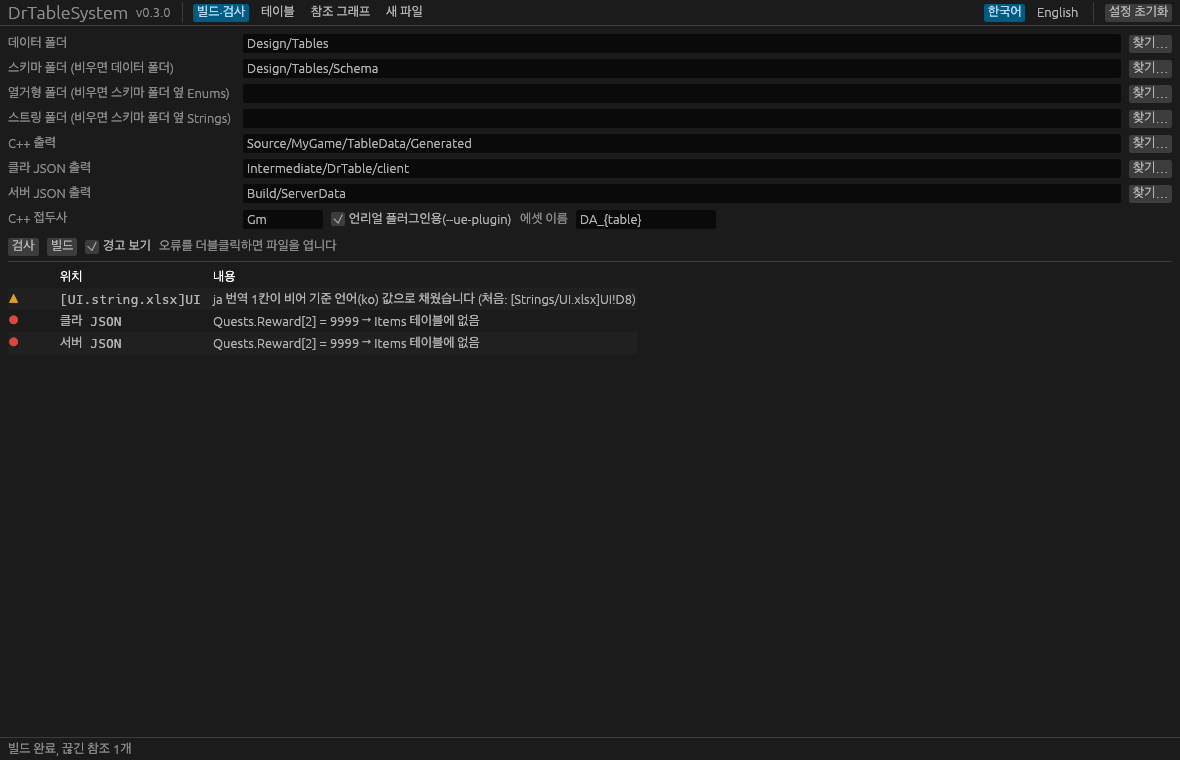
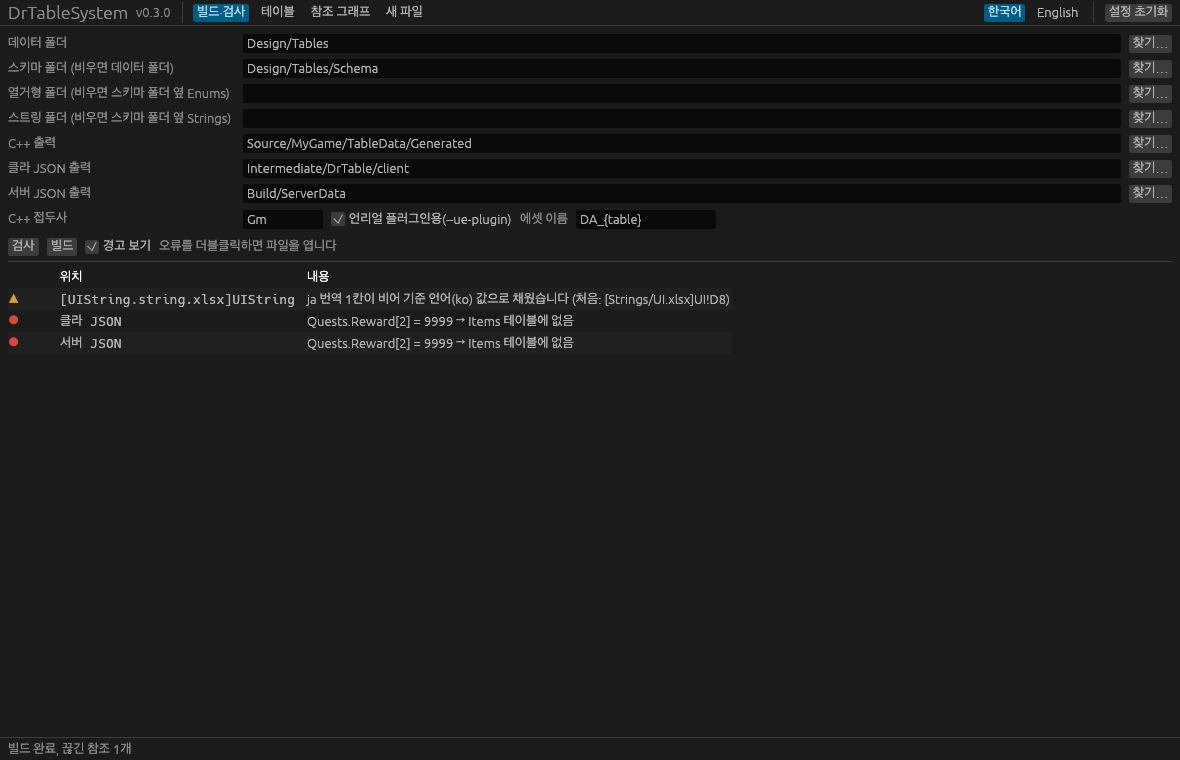
String table schemas are named after the table: UIString.string.xlsx
- The schema file and sheet carry the full table name, which must end with String
  (UIString.string.xlsx, sheet UIString); a name without it is an error with an example.
- Data sheets in the strings folder may leave out String (UI) or write it (UIString).
- Schema errors are reported even when they leave no schema (the empty-input check
  no longer hides them).
- Manual, README, CHANGELOG, design note, screenshots updated.

Claude-Session: https://claude.ai/code/session_016ZSFGbiCnqUvygNywMoQZv

Changed region(s): [[0.0915, 0.3632, 0.6102, 0.4539]]

diff --git a/rust/tests/strings.rs b/rust/tests/strings.rs
@@ -1,5 +1,5 @@
-//! String tables: `<Name>.string.xlsx` language lists, the strings folder, per-language output
-//! and text references. The string table `UI` is the table `UIString`.
+//! String tables: `<Name>String.string.xlsx` language lists, the strings folder, per-language
+//! output and text references. Data sheets may leave out the String suffix (`UI` for `UIString`).
 
 #[macro_use]
 mod common;
@@ -44,7 +44,7 @@ impl Project {
         write_schema(&self.table.join("Schema").join(format!("{name}.schema.xlsx")), name, &fields(items));
     }
 
-    /// Schema/<name>.string.xlsx: one language per row (Language, Base, Scope).
+    /// Schema/<name>.string.xlsx (name ends with String): one language per row (Language, Base, Scope).
     fn string_schema(&self, name: &str, languages: &[Language]) {
         let mut rows = vec![row!["Language", "Base", "Scope", "Comment"]];
         for (code, base, scope) in languages {
@@ -62,7 +62,7 @@ impl Project {
     }
 
     fn ui_strings(&self, data: Vec<Row>) {
-        self.string_schema("UI", &UI_LANGUAGES);
+        self.string_schema("UIString", &UI_LANGUAGES);
         self.data("Strings/UI.xlsx", vec![("UI", sheet(row!["Id", "ko", "en", "zh-Hans"], data))]);
     }
 
@@ -105,7 +105,7 @@ fn string_table_outputs_one_file_per_language() {
     // The empty zh-Hans cell takes the base text.
     let zh = project.json("client/Strings/zh-Hans/UIString.json");
     assert_eq!(zh["values"], json!(["확인", "{0} 金币", "主界面"]));
-    assert!(result.stderr.contains("[UI.string.xlsx]UI: zh-Hans 번역 1칸이 비어 기준 언어(ko) 값으로 채웠습니다"), "{}", result.stderr);
+    assert!(result.stderr.contains("[UIString.string.xlsx]UIString: zh-Hans 번역 1칸이 비어 기준 언어(ko) 값으로 채웠습니다"), "{}", result.stderr);
     assert!(result.stderr.contains("[Strings/UI.xlsx]UI!D5"), "{}", result.stderr);
     // The structure hash is shared; each language has its own content hash.
     assert_eq!(ko["schema_hash"], zh["schema_hash"]);
@@ -115,7 +115,7 @@ fn string_table_outputs_one_file_per_language() {
     assert!(manifest["tables"].as_array().unwrap().iter().all(|t| t["name"] != "UIString"));
     let entry = &manifest["string_tables"][0];
     assert_eq!(entry["name"], "UIString");
-    assert_eq!(entry["schema"], "UI.string.xlsx");
+    assert_eq!(entry["schema"], "UIString.string.xlsx");
     assert_eq!(entry["base_language"], "ko");
     assert_eq!(entry["languages"], json!(["ko", "en", "zh-Hans"]));
     assert_eq!(entry["content_hashes"]["en"], project.json("client/Strings/en/UIString.json")["content_hash"]);
@@ -130,7 +130,7 @@ fn string_table_outputs_one_file_per_language() {
 
 #[test]
 fn a_string_table_and_a_table_may_share_a_name() {
-    // UI.string.xlsx defines UIString, so a regular table UI is unaffected.
+    // UIString.string.xlsx defines UIString; its data sheets are named UI, and a regular table UI is unaffected.
     let project = Project::new();
     project.ui_strings(sample_rows());
     project.schema("UI", &[("Id", "ID<int32>", "all")]);
@@ -144,7 +144,7 @@ fn a_string_table_and_a_table_may_share_a_name() {
 #[test]
 fn server_scope_languages_go_to_the_server_output() {
     let project = Project::new();
-    project.string_schema("Mail", &[("ko", true, "all"), ("en", false, "")]);
+    project.string_schema("MailString", &[("ko", true, "all"), ("en", false, "")]);
     project.data("Strings/Mail.xlsx", vec![("Mail", sheet(row!["Id", "ko", "en"], vec![row!["Welcome", "환영", "Welcome"]]))]);
     assert_eq!(project.build(&[]).code, 0);
     assert_eq!(project.json("server/manifest.json")["string_tables"][0]["languages"], json!(["ko"]));
@@ -218,23 +218,23 @@ fn string_keys_header_is_opt_in() {
 #[test]
 fn string_data_belongs_in_the_strings_folder() {
     let project = Project::new();
-    project.string_schema("UI", &UI_LANGUAGES);
+    project.string_schema("UIString", &UI_LANGUAGES);
     project.schema("Items", &[("Id", "ID<int32>", "all")]);
     project.data("UI.xlsx", vec![("UI", sheet(row!["Id", "ko", "en", "zh-Hans"], vec![row!["A", "가", (), ()]]))]);
     project.data("Strings/Items.xlsx", vec![("Items", sheet(row!["Id"], vec![row![1]]))]);
     project.data("Strings/Other.xlsx", vec![("Menu", sheet(row!["Id", "ko"], vec![row!["A", "가"]]))]);
     let result = project.build(&[]);
     assert_eq!(result.code, 1);
-    assert!(result.stderr.contains("[UI.xlsx]UI!A1: 스트링테이블 'UI'의 데이터는 스트링 폴더("), "{}", result.stderr);
+    assert!(result.stderr.contains("[UI.xlsx]UI!A1: 스트링테이블 'UIString'의 데이터는 스트링 폴더("), "{}", result.stderr);
     assert!(result.stderr.contains("[Strings/Items.xlsx]Items!A1: 일반 테이블 'Items'의 데이터는 스트링 폴더("), "{}", result.stderr);
-    assert!(result.stderr.contains("[Strings/Other.xlsx]Menu!A1: 스트링테이블 스키마가 없습니다. 언어 목록을 'Menu.string.xlsx'에"), "{}", result.stderr);
+    assert!(result.stderr.contains("[Strings/Other.xlsx]Menu!A1: 스트링테이블 스키마가 없습니다. 언어 목록을 'MenuString.string.xlsx'에"), "{}", result.stderr);
 }
 
 #[test]
 fn strings_folder_option_and_default_without_a_schema_folder() {
     // Elsewhere with --strings.
     let project = Project::new();
-    project.string_schema("UI", &UI_LANGUAGES);
+    project.string_schema("UIString", &UI_LANGUAGES);
     let elsewhere = project.table.parent().unwrap().join("Localization");
     Book::new()
         .with("UI", sheet(row!["Id", "ko", "en", "zh-Hans"], vec![row!["A", "가", "A", "甲"]]))
@@ -246,8 +246,8 @@ fn strings_folder_option_and_default_without_a_schema_folder() {
     // Without --schema the schemas sit in the input folder and the strings in <input>/Strings.
     let tmp = Tmp::new();
     Book::new()
-        .with("UI", vec![row!["Language", "Base", "Scope"], row!["ko", true], row!["en"]])
-        .save_plain(&tmp.join("UI.string.xlsx"));
+        .with("UIString", vec![row!["Language", "Base", "Scope"], row!["ko", true], row!["en"]])
+        .save_plain(&tmp.join("UIString.string.xlsx"));
     Book::new().with("UI", sheet(row!["Id", "ko", "en"], vec![row!["A", "가", ()]])).save_plain(&tmp.join("Strings/UI.xlsx"));
     let result = build(&tmp, &tmp.join("out"), &[]);
     assert_eq!(result.code, 0, "{}", result.stderr);
@@ -264,11 +264,11 @@ fn language_list_rules() {
     ];
     for (languages, cell, message) in cases {
         let project = Project::new();
-        project.string_schema("UI", languages);
+        project.string_schema("UIString", languages);
         project.data("Strings/UI.xlsx", vec![("UI", sheet(row!["Id", "ko", "en"], vec![]))]);
         let result = project.build(&[]);
         assert_eq!(result.code, 1, "{message}");
-        assert!(result.stderr.contains(&format!("[UI.string.xlsx]UI!{cell}")), "{message}: {}", result.stderr);
+        assert!(result.stderr.contains(&format!("[UIString.string.xlsx]UIString!{cell}")), "{message}: {}", result.stderr);
         assert!(result.stderr.contains(message), "{message}: {}", result.stderr);
     }
 }
@@ -324,7 +324,7 @@ fn string_keys_differing_only_by_case_are_rejected() {
 #[test]
 fn new_creates_a_string_data_workbook() {
     let project = Project::new();
-    project.string_schema("UI", &UI_LANGUAGES);
+    project.string_schema("UIString", &UI_LANGUAGES);
     let out = project.table.join("Strings/UI.xlsx");
     let result = drtable(["new", "--table", "UI", "--out", &s(&out), "--schema", &s(&project.table.join("Schema"))]);
     assert_eq!(result.code, 0, "{}", result.stderr);
@@ -339,4 +339,26 @@ fn new_creates_a_string_data_workbook() {
     assert!(base_view.contains("SUBSTITUTE(B$1,\"-\",\"_\")"), "{base_view}");
     // The new workbook builds (an empty string table).
     assert_eq!(project.build(&[]).code, 0);
+}
+
+#[test]
+fn string_table_names_end_with_string() {
+    let project = Project::new();
+    project.string_schema("Mail", &[("ko", true, "")]);
+    let result = project.build(&[]);
+    assert_eq!(result.code, 1);
+    assert!(result.stderr.contains("[Mail.string.xlsx]Mail!A1: 스트링테이블 이름은 String으로 끝나야 합니다 (예: MailString.string.xlsx"), "{}", result.stderr);
+}
+
+#[test]
+fn data_sheets_may_use_the_full_name() {
+    let project = Project::new();
+    project.string_schema("UIString", &UI_LANGUAGES);
+    project.data("Strings/UI.xlsx", vec![
+        ("UI", sheet(row!["Id", "ko", "en", "zh-Hans"], vec![row!["A", "가", (), ()]])),
+        ("UIString#more", sheet(row!["Id", "ko", "en", "zh-Hans"], vec![row!["B", "나", (), ()]])),
+    ]);
+    let result = project.build(&[]);
+    assert_eq!(result.code, 0, "{}", result.stderr);
+    assert_eq!(project.json("client/Strings/ko/UIString.json")["keys"], json!(["A", "B"]));
 }

diff --git a/rust/src/excel.rs b/rust/src/excel.rs
@@ -107,7 +107,7 @@ pub fn load_model(
     }
     // An input folder with nothing in it is almost always a wrong path; building it would
     // replace the generated code with an empty set.
-    if files.is_empty() && schemas.all().next().is_none() {
+    if files.is_empty() && schemas.all().next().is_none() && errors.messages.is_empty() {
         return Err(ValidationErrors(vec![tr(
             format!("입력!A1: 스키마도 데이터 파일도 없습니다: {}", input.display()),
             format!("input!A1: no schema or data workbook found: {}", input.display()),
@@ -153,31 +153,42 @@ pub fn load_model(
                 ));
                 continue;
             }
-            // Sheets in the strings folder belong to string tables: sheet UI is the table UIString.
-            let string_name = format!("{name}{STRING_TABLE_SUFFIX}");
+            // Sheets in the strings folder belong to string tables; the sheet may leave out the
+            // String suffix (UI for UIString).
+            let string_name = if name.ends_with(STRING_TABLE_SUFFIX) && schemas.tables.get(name).is_some_and(|s| s.is_strings) {
+                name.to_string()
+            } else {
+                format!("{name}{STRING_TABLE_SUFFIX}")
+            };
             let table = if in_strings_folder { string_name.as_str() } else { name };
             let folder = strings_root.display();
+            let wrong_place = |is_strings: bool| if is_strings {
+                tr(
+                    format!("스트링테이블 '{string_name}'의 데이터는 스트링 폴더({folder})에 두어야 합니다"),
+                    format!("string table '{string_name}' data belongs in the strings folder ({folder})"),
+                )
+            } else {
+                tr(
+                    format!("일반 테이블 '{name}'의 데이터는 스트링 폴더({folder})에 둘 수 없습니다"),
+                    format!("table '{name}' is not a string table; its data cannot be in the strings folder ({folder})"),
+                )
+            };
             match schemas.tables.get(table) {
                 Some(schema) if schema.is_strings == in_strings_folder => {
                     if let Some(grid) = &sheet.grid {
                         table_parts.entry(table.to_string()).or_default().push(SheetRef { file: relative, grid });
                     }
                 }
-                Some(_) => errors.add(&where_, "A1", tr(
-                    format!("일반 테이블 '{name}'의 데이터는 스트링 폴더({folder})에 둘 수 없습니다"),
-                    format!("table '{name}' is not a string table; its data cannot be in the strings folder ({folder})"),
-                )),
-                None if !in_strings_folder && schemas.tables.get(&string_name).is_some_and(|s| s.is_strings) => errors.add(&where_, "A1", tr(
-                    format!("스트링테이블 '{name}'의 데이터는 스트링 폴더({folder})에 두어야 합니다"),
-                    format!("string table '{name}' data belongs in the strings folder ({folder})"),
-                )),
-                None if in_strings_folder && schemas.tables.get(name).is_some_and(|s| !s.is_strings) => errors.add(&where_, "A1", tr(
-                    format!("일반 테이블 '{name}'의 데이터는 스트링 폴더({folder})에 둘 수 없습니다"),
-                    format!("table '{name}' is not a string table; its data cannot be in the strings folder ({folder})"),
-                )),
+                Some(schema) => errors.add(&where_, "A1", wrong_place(schema.is_strings)),
+                None if !in_strings_folder && schemas.tables.get(&string_name).is_some_and(|s| s.is_strings) => {
+                    errors.add(&where_, "A1", wrong_place(true))
+                }
+                None if in_strings_folder && schemas.tables.get(name).is_some_and(|s| !s.is_strings) => {
+                    errors.add(&where_, "A1", wrong_place(false))
+                }
                 None if in_strings_folder => errors.add(&where_, "A1", tr(
-                    format!("스트링테이블 스키마가 없습니다. 언어 목록을 '{name}.string.xlsx'에 정의하세요"),
-                    format!("no string table schema. List the languages in '{name}.string.xlsx'"),
+                    format!("스트링테이블 스키마가 없습니다. 언어 목록을 '{string_name}.string.xlsx'에 정의하세요"),
+                    format!("no string table schema. List the languages in '{string_name}.string.xlsx'"),
                 )),
                 None => errors.add(&where_, "A1", tr(
                     format!("스키마가 없습니다. '{name}.schema.xlsx'에 필드를 정의하세요"),

diff --git a/rust/src/schemafile.rs b/rust/src/schemafile.rs
@@ -2,13 +2,13 @@
 //!
 //! * Table schemas: `<Table>.schema.xlsx` in the schema folder.
 //! * Enum schemas: `<Enum>.enum.xlsx` in the enum folder (default: `Enums` next to the schema folder).
-//! * String table schemas: `<Name>.string.xlsx` in the schema folder. They define the table
-//!   `<Name>String`: an `Id` name key and one column per language.
+//! * String table schemas: `<Name>String.string.xlsx` in the schema folder (the name ends with
+//!   `String`). They define the table `<Name>String`: an `Id` name key and one column per language.
 //!
 //! Table schema: one sheet named after the table; row 1 labels, from row 2 one field per row
 //! (A name, B type, C scope, D comment). Enum schema: one sheet named after the enum; from
 //! row 2 one enumerator per row (A name, B value, C comment). String table schema: one sheet
-//! named `<Name>`; from row 2 one language per row (A language code, B base language mark,
+//! named `<Name>String`; from row 2 one language per row (A language code, B base language mark,
 //! C scope (default client), D comment).
 
 use std::collections::BTreeMap;
@@ -25,7 +25,7 @@ pub const TABLE_SUFFIXES: [&str; 1] = [".schema.xlsx"];
 pub const ENUM_SUFFIXES: [&str; 1] = [".enum.xlsx"];
 pub const STRING_SUFFIXES: [&str; 1] = [".string.xlsx"];
 pub const SCHEMA_SUFFIXES: [&str; 3] = [".schema.xlsx", ".enum.xlsx", ".string.xlsx"];
-/// A string table `UI` (UI.string.xlsx, data sheets `UI`) is the table `UIString`.
+/// String table names end with this (UIString.string.xlsx); data sheets may leave it out (`UI`).
 pub const STRING_TABLE_SUFFIX: &str = "String";
 pub const DEFAULT_ENUM_FOLDER: &str = "Enums";
 pub const DEFAULT_STRINGS_FOLDER: &str = "Strings";
@@ -39,7 +39,7 @@ pub struct Schema {
     pub name: String,
     pub rows: Vec<Row>,
     pub is_enum: bool,
-    /// A string table schema (`.string.xlsx`); `name` is `<title>String`.
+    /// A string table schema (`.string.xlsx`); its name ends with `String`.
     pub is_strings: bool,
     /// Sheet name as written.
     pub title: String,
@@ -52,8 +52,8 @@ impl Schema {
         format!("[{}]{}", self.file, if self.title.is_empty() { &self.name } else { &self.title })
     }
 
-    /// The name as written in the file (`UI` for the string table `UIString`).
-    pub fn defined_name(&self) -> String {
+    /// The name a data sheet may use: `UI` for the string table `UIString`, otherwise the name.
+    pub fn short_name(&self) -> String {
         if self.is_strings {
             self.name.strip_suffix(STRING_TABLE_SUFFIX).unwrap_or(&self.name).to_string()
         } else {
@@ -208,7 +208,7 @@ fn collect(
         let Some(schema) = read_schema(path, relative, kind, errors) else { continue };
         let file_name = path.file_name().map(|n| n.to_string_lossy().to_string()).unwrap_or_default();
         let stem = &file_name[..file_name.len() - suffix.len()];
-        let defined = schema.defined_name();
+        let defined = schema.name.clone();
         if defined != stem {
             errors.add(&schema.where_(), "A1", tr(
                 format!("이름 '{defined}'과 파일 이름 '{file_name}'이 다릅니다. 파일 이름은 '{defined}{suffix}'여야 합니다"),
@@ -258,6 +258,14 @@ fn read_schema(path: &Path, relative: &str, kind: Kind, errors: &mut ErrorCollec
         ));
         return None;
     }
+    if is_strings && (schema.name.len() <= STRING_TABLE_SUFFIX.len() || !schema.name.ends_with(STRING_TABLE_SUFFIX)) {
+        let example = format!("{}{STRING_TABLE_SUFFIX}", schema.name);
+        errors.add(&schema.where_(), "A1", tr(
+            format!("스트링테이블 이름은 String으로 끝나야 합니다 (예: {example}.string.xlsx, 시트 {example})"),
+            format!("a string table name must end with String (e.g. {example}.string.xlsx, sheet {example})"),
+        ));
+        return None;
+    }
     let grid = sheet.grid?;
     let width = if is_enum { 3 } else { 4 };
     for row in 2..=grid.max_row() {
@@ -298,7 +306,6 @@ fn read_schema(path: &Path, relative: &str, kind: Kind, errors: &mut ErrorCollec
     if is_strings {
         // The key is implicit: Id, a name, in every output.
         schema.rows.insert(0, (1, Cell::Str("Id".into()), Cell::Str("ID<name>".into()), Cell::Str("all".into()), Cell::Empty));
-        schema.name = format!("{}{STRING_TABLE_SUFFIX}", schema.name);
     }
     Some(schema)
 }

diff --git a/rust/src/headers.rs b/rust/src/headers.rs
@@ -53,8 +53,8 @@ pub fn new_workbook(target: &Path, table: &str, schemas: &Schemas, errors: &mut 
     let mut workbook = Workbook::new();
     let sheet = workbook.add_worksheet();
     let written = (|| -> Result<(), rust_xlsxwriter::XlsxError> {
-        // A string table's data sheet is named like its schema sheet (UI), not the table (UIString).
-        sheet.set_name(&sheet_name)?;
+        // A string table's data sheet uses the short name (UI for UIString).
+        sheet.set_name(schema.short_name())?;
         for (index, (schema_row, name, _, _)) in schema.raw_columns().iter().enumerate() {
             let column = index as u16;
             let letter = column_letter(index + 1);

diff --git a/docs/en/manual.md b/docs/en/manual.md
@@ -239,11 +239,11 @@ DropTable:  Id: ID<int32>       GroupId: SubKey<int32>      Item: Ref<Items>
 
 Text that differs per language, such as UI text and item names, lives in string tables. The game keeps **only the current language** in memory. Switching languages loads the new one, swaps it in at once, and then fires a delegate so the UI can redraw.
 
-### Schema: `<Name>.string.xlsx`
+### Schema: `<Name>String.string.xlsx`
 
-A string table schema is just a **list of languages**, with no types. It goes in the schema folder as `<Name>.string.xlsx`, with a sheet named `<Name>`. The table it defines is **`<Name>String`** (`UI.string.xlsx` → `UIString`), so it never clashes with a regular table `UI`.
+A string table schema is just a **list of languages**, with no types. It goes in the schema folder named **after the table** (`<Name>.string.xlsx`, with a sheet of the same name). A string table name **must end with `String`** (`UIString.string.xlsx`, sheet `UIString`), so it never clashes with a regular table `UI`.
 
-`Schema/UI.string.xlsx`, sheet `UI`:
+`Schema/UIString.string.xlsx`, sheet `UIString`:
 
 | | A Language | B Base | C Scope | D Comment |
 |---|---|---|---|---|
@@ -267,10 +267,10 @@ Design/Tables/          data
 Design/Tables/Schema/   schemas (string table schemas too)
 Design/Tables/Enums/    enums
 Design/Tables/Strings/  string table data (--strings, default: Strings next to the schema folder)
-  UI.xlsx               sheet UI (= table UIString): row 1 Id ko en zh-Hans, data from row 4
+  UI.xlsx               sheet UI (= UIString): row 1 Id ko en zh-Hans, data from row 4
 ```
 
-- The sheet is named like the schema (`UI`). Sheets in the strings folder belong to the `<Name>String` table.
+- Sheets in the strings folder may leave out `String`: sheet `UI` belongs to `UIString` (writing `UIString` works too).
 - Without `--schema`, the strings folder is `Strings` inside the input folder. Splitting sheets and files (`UI#Menu`) works as for other tables.
 - These are errors:
   - a string table sheet outside the strings folder
@@ -294,7 +294,7 @@ client/manifest.json               "string_tables": base language, languages, co
 
 ### Pointing at strings from other tables
 
-When a regular table points at a string table key, as in `Name: Ref<ItemString>` (schema `Item.string.xlsx`), the generated accessor returns **the text in the current language**:
+When a regular table points at a string table key, as in `Name: Ref<ItemString>` (schema `ItemString.string.xlsx`), the generated accessor returns **the text in the current language**:
 
 ```cpp
 const FGmItemsRow* Sword = FGmItemsRow::Find(1001);
@@ -582,8 +582,9 @@ A `v*` tag builds the executables for each platform and attaches them to a Relea
 | `Table asset not found` | Registered but never baked, or `AssetRoot`/`--asset-name` differ between bake and load. |
 | `Row type is registered for more than one table` | The same row struct was registered twice. Look it up by table id (`FindRowByKey<TRow>(TableId, Key)`). |
 | `string table 'X' data belongs in the strings folder (…)` | Move the string table workbook into the strings folder (and other tables' workbooks out of it). |
-| `mark one base language` | In `<Name>.string.xlsx`, put a mark (✓) in column B (Base) of one language. |
-| `no string table schema` | No `<Name>.string.xlsx` matches the sheet name in the strings folder. |
+| `mark one base language` | In `<Name>String.string.xlsx`, put a mark (✓) in column B (Base) of one language. |
+| `no string table schema` | No `<Name>String.string.xlsx` matches the sheet name in the strings folder. |
+| `a string table name must end with String` | Rename the schema file and sheet to `<Name>String`. |
 | `… empty … translation(s) filled from the base language` (warning) | Cells not translated yet; the game shows the base language text. |
 | `No text for Table.Key` (Unreal warning) | The key is not in the string table, or it was not baked. Generate → bake. |
 | `--asset-base requires --asset-base-header` | Pass the header that declares the base class, or use `--ue-plugin`. |

diff --git a/CHANGELOG.md b/CHANGELOG.md
@@ -2,7 +2,7 @@
 
 ## 0.3.0
 
-- String tables: `<Name>.string.xlsx` lists the languages (code, base mark, scope) and defines the table `<Name>String`; data sheets `<Name>` in the strings folder (`--strings`, default `Strings` next to the schema folder). Empty translations take the base text at build time; format arguments that differ from the base text are warned. Output per language (`Strings/<culture>/<Table>.json`), no generated code for string tables (`--string-keys` adds optional key constants).
+- String tables: `<Name>String.string.xlsx` lists the languages (code, base mark, scope); data sheets `<Name>` (or `<Name>String`) in the strings folder (`--strings`, default `Strings` next to the schema folder). Empty translations take the base text at build time; format arguments that differ from the base text are warned. Output per language (`Strings/<culture>/<Table>.json`), no generated code for string tables (`--string-keys` adds optional key constants).
 - `Ref<StringTable>` accessors return the text in the current language.
 - Unreal plugin: per-language string assets and a language list baked by `DrTableBake`; `UDrStringSubsystem` loads only the current language, switches asynchronously, unloads the previous one and fires `OnLanguageChanged`; `UDrLocalizedTextBlock` redraws itself.
 - `drtable-gui`: a strings folder setting, and string tables listed separately.

diff --git a/docs/design/string-tables.md b/docs/design/string-tables.md
@@ -1,6 +1,6 @@
 # 스트링테이블 설계 (초안)
 
-> **변경(2026-10-01, 사용자 결정)**: 스키마는 `<이름>.string.xlsx` **언어 목록**(A 언어 코드, B 기준 표시, C 범위; 자료형 없음)으로 나눴다. 이 파일이 정의하는 테이블은 `<이름>String`이고(`UI.string.xlsx` → `UIString`), 스트링 폴더의 시트 `UI`가 그 데이터다. 아래 본문의 `lang`/`Base<lang>` 열 표기는 내부 표현으로만 남았고, 일반 `.schema.xlsx`에는 쓸 수 없다. 언어 코드는 `zh-Hans`처럼 써도 된다.
+> **변경(2026-10-01, 사용자 결정)**: 스키마는 `<이름>String.string.xlsx` **언어 목록**(A 언어 코드, B 기준 표시, C 범위; 자료형 없음)으로 나눴다. 파일·시트 이름이 곧 테이블 이름이고 `String`으로 끝나야 한다(`UIString.string.xlsx`). 스트링 폴더의 데이터 시트는 `String`을 생략해 `UI`로 써도 된다. 아래 본문의 `lang`/`Base<lang>` 열 표기는 내부 표현으로만 남았고, 일반 `.schema.xlsx`에는 쓸 수 없다. 언어 코드는 `zh-Hans`처럼 써도 된다.
 
 상태: **구현됨**(2026-10-01). 결정(◆)은 모두 확정했다. 사용법은 매뉴얼 8절이 기준이고, 이 문서는 설계 기록이다.
 

diff --git a/README.ko.md b/README.ko.md
@@ -9,7 +9,7 @@
 - **클라·서버 JSON**을 같은 데이터에서 필드 범위별로 나눠 만듭니다.
 - **언리얼 플러그인**: 클라 JSON을 키 인덱스까지 계산된 DataAsset으로 굽고, 복사 없이 읽으며, 오래된 에셋을 거부합니다.
 - **테이블 간 참조**(`Ref<Items>`, `Ref<DropTable.GroupId>`)를 `drtable check`로 검사하고 Mermaid 그래프로 그립니다.
-- **스트링테이블**(`UI.string.xlsx`에 언어 목록과 기준 언어 → 테이블 `UIString`): 데이터는 별도 Strings 폴더, 언어마다 파일·에셋 하나. 게임은 설정 언어만 불러오고, 런타임에 언어를 바꾸면 UI에 갱신을 알립니다.
+- **스트링테이블**(`UIString.string.xlsx`에 언어 목록과 기준 언어): 데이터는 별도 Strings 폴더, 언어마다 파일·에셋 하나. 게임은 설정 언어만 불러오고, 런타임에 언어를 바꾸면 UI에 갱신을 알립니다.
 - **GUI**(`drtable-gui`): 빌드·검사(오류를 더블클릭하면 파일 열기), 테이블 탐색, 참조 그래프, 새 데이터 파일 만들기.
 - 한 테이블을 여러 시트·파일로 나누기, 결정적 산출물, 영어·한국어 메시지.
 

diff --git a/README.md b/README.md
@@ -9,7 +9,7 @@
 - **Client and server JSON** from the same data, split by field scope.
 - **Unreal plugin**: bakes client JSON into DataAssets with prebuilt key indices, loads them without copying, and rejects stale assets.
 - **References between tables** (`Ref<Items>`, `Ref<DropTable.GroupId>`), checked by `drtable check` and drawn as a Mermaid graph.
-- **String tables** (`UI.string.xlsx` lists the languages and the base one → table `UIString`): data in a separate Strings folder, one file and asset per language; the game loads only the current language, switches at runtime and tells the UI to refresh.
+- **String tables** (`UIString.string.xlsx` lists the languages and the base one): data in a separate Strings folder, one file and asset per language; the game loads only the current language, switches at runtime and tells the UI to refresh.
 - **GUI** (`drtable-gui`): build and check with clickable errors, browse tables, see the reference graph, create data workbooks.
 - Split a table over sheets and files, deterministic output, messages in English or Korean.
 
